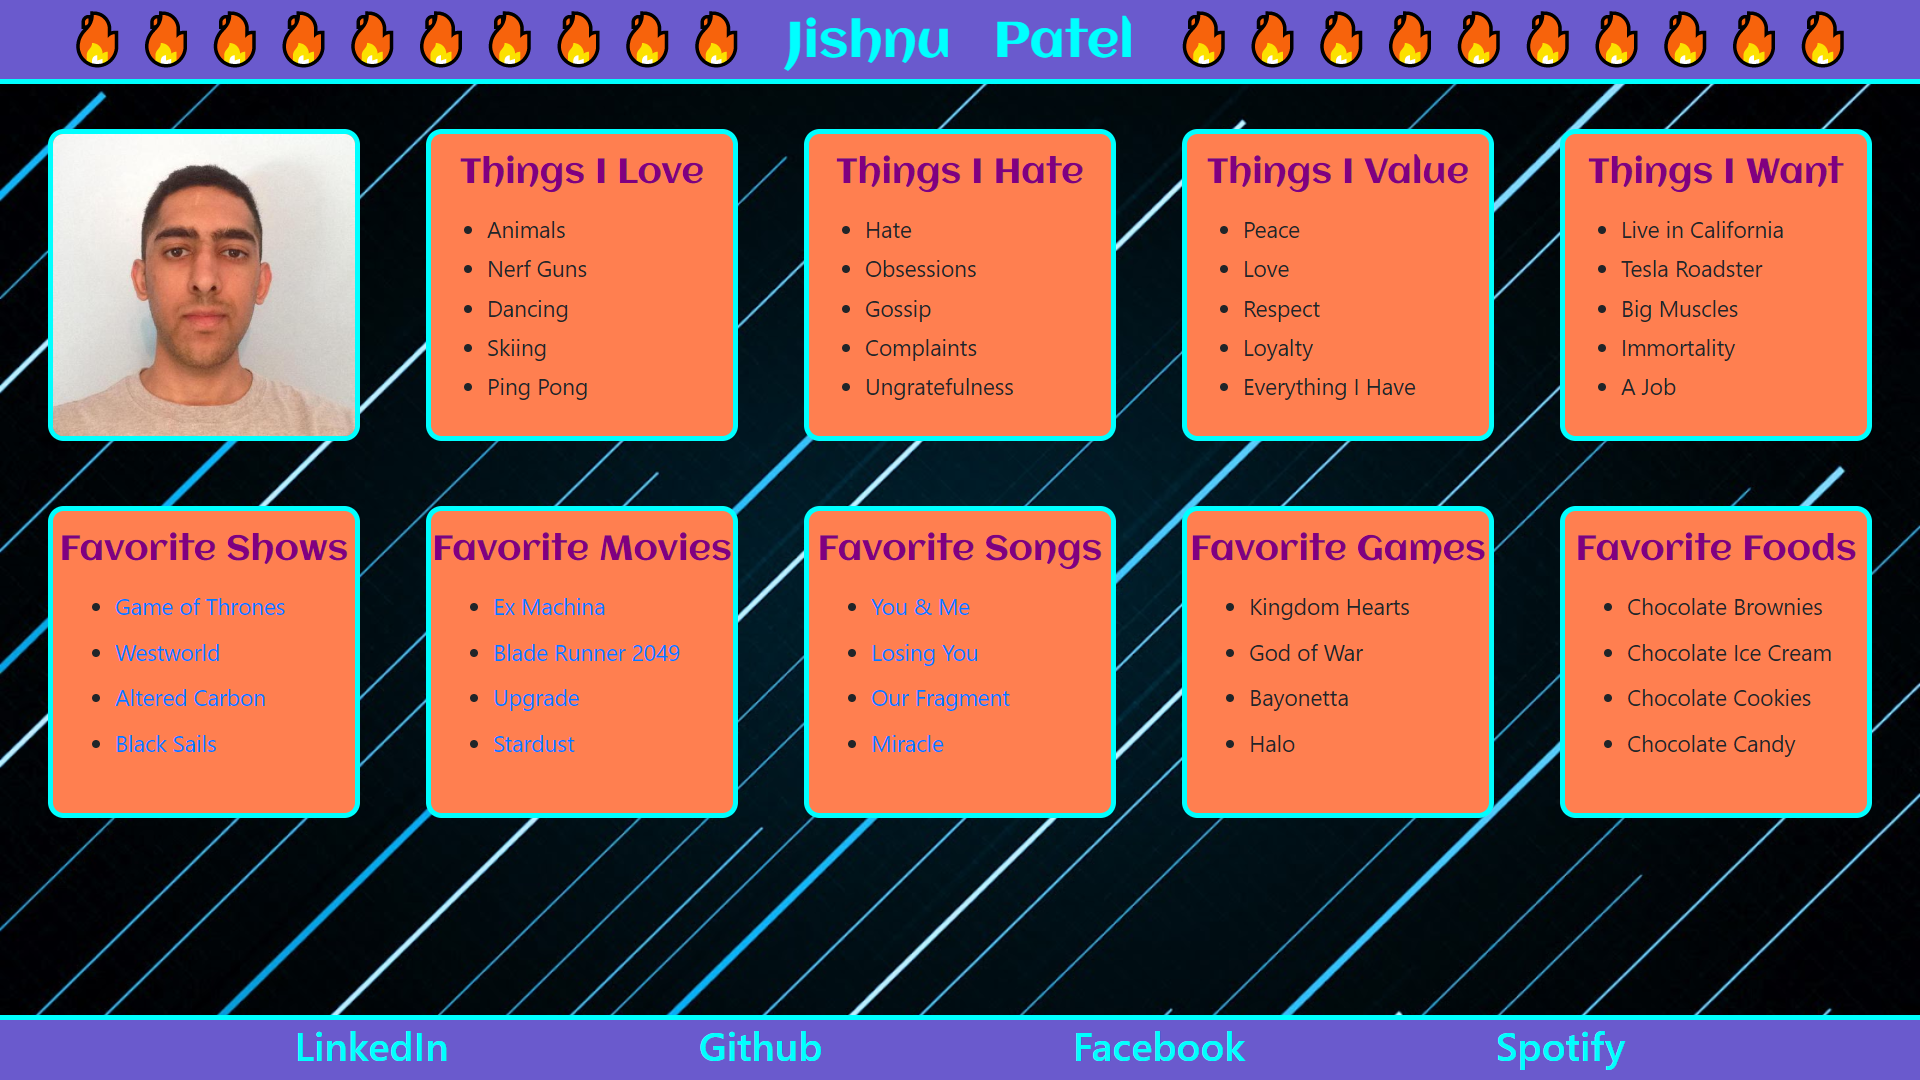
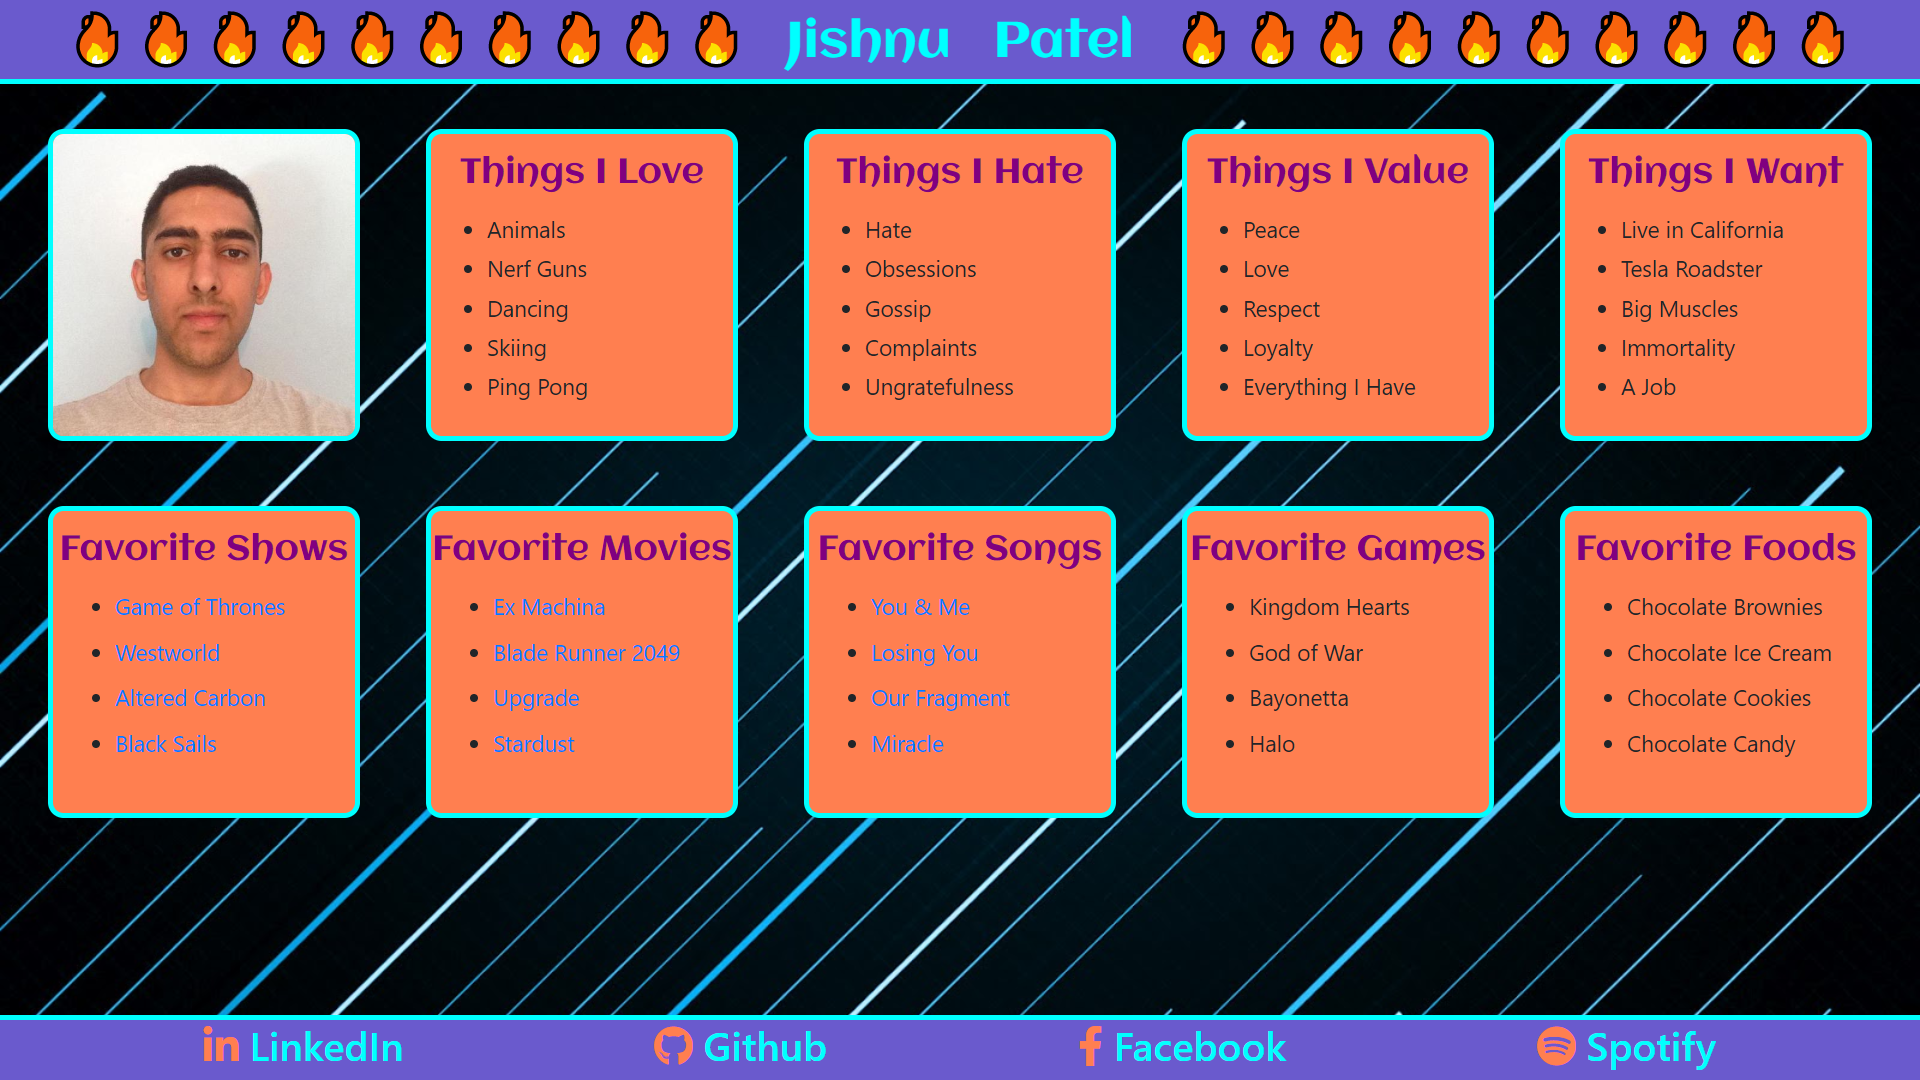
Add files via upload

diff --git a/index.html b/index.html
@@ -10,12 +10,13 @@
     <link rel="stylesheet" href="w3.css">
     <link rel="stylesheet" href="https://maxcdn.bootstrapcdn.com/bootstrap/4.0.0/css/bootstrap.min.css"
         integrity="sha384-Gn5384xqQ1aoWXA+058RXPxPg6fy4IWvTNh0E263XmFcJlSAwiGgFAW/dAiS6JXm" crossorigin="anonymous">
+    <script src="https://kit.fontawesome.com/b749c6b42c.js"></script>
 </head>
 
 <body class="background">
 
     <h1 class="header"> 🔥 🔥 🔥 🔥 🔥 🔥 🔥 🔥 🔥 🔥 &nbsp; Jishnu &nbsp; Patel &nbsp; 🔥 🔥 🔥 🔥 🔥 🔥 🔥 🔥 🔥 🔥 </h1>
-
+    
     <div class="main">
         <table>
             <tr>
@@ -141,19 +142,23 @@
         <table>
             <tr>
                 <td>
-                    <h2><a target="_blank" href="https://www.linkedin.com/in/jishnupatel1/" style="color:cyan"> LinkedIn
+                    <h2><i class="fab fa-linkedin-in"></i>
+                    <a target="_blank" href="https://www.linkedin.com/in/jishnupatel1/" style="color:cyan"> LinkedIn
                         </a></h2>
                 </td>
                 <td>
-                    <h2><a target="_blank" href="https://github.com/jishnu1" style="color:cyan">
+                    <h2><i class="fab fa-github"></i>
+                    <a target="_blank" href="https://github.com/jishnu1" style="color:cyan">
                         Github </a></h2>
                 </td>
                 <td>
-                    <h2><a target="_blank" href="https://www.facebook.com/jishnupatel0" style="color:cyan">
+                    <h2><i class="fab fa-facebook-f"></i>
+                    <a target="_blank" href="https://www.facebook.com/jishnupatel0" style="color:cyan">
                         Facebook </a></h2>
                 </td>
                 <td>
-                    <h2><a target="_blank" href="https://open.spotify.com/user/jishnup" style="color:cyan">
+                    <h2><i class="fab fa-spotify"></i>
+                    <a target="_blank" href="https://open.spotify.com/user/jishnup" style="color:cyan">
                         Spotify </a></h2>
                 </td>
             </tr>

diff --git a/style.css b/style.css
@@ -9,6 +9,7 @@
     border-bottom-color: cyan;
     border-width: 0px 0px 4px 0px;
     font-family: "Aclonica", cursive;
+    white-space: nowrap;
 }
 
 .background {
@@ -75,4 +76,7 @@
 .footer table tr td {
     padding-left: 100px;
     padding-right: 100px;
+}
+.footer table tr td h2 i {
+    color: coral;
 }
